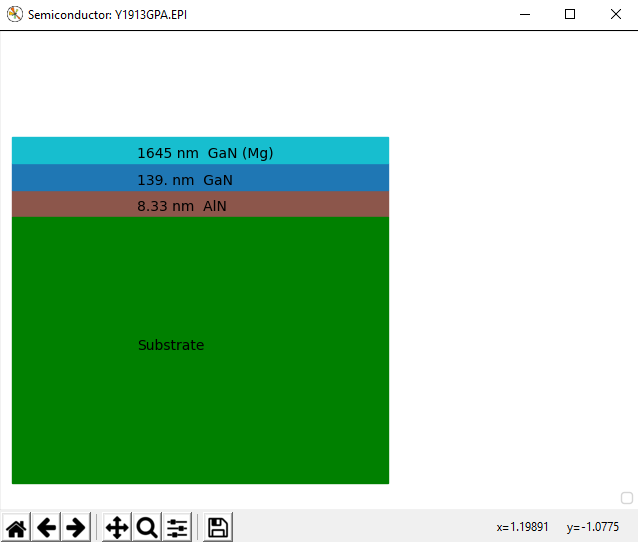
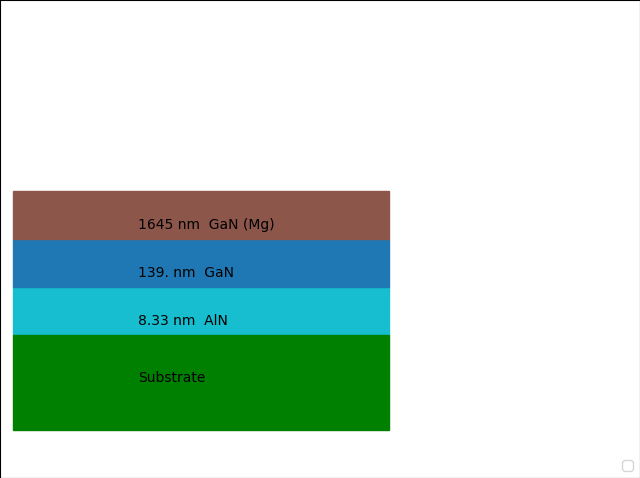
Add files via upload

diff --git a/recipeClass.py b/recipeClass.py
@@ -449,17 +449,17 @@ class Recipe:
 #                        previous_colors.append(color_label)
 #                        semiconductor_layers.append(semiconductor_layer)
             # Add substrate layer
-            substrate = Rectangle((0,-1),3,1,color='g')
+            substrate = Rectangle((0,-0.2),3,0.2,color='g')
             ax.add_patch(substrate)
             ax.legend(handles=semiconductor_layers,loc='lower right')
-            ax.text(1,-0.5,'Substrate')
+            ax.text(1,-0.1,'Substrate')
             
             ax.set_xlim([-0.1,5])
             # Set y limits
             if real_semiconductor:
-                ax.set_ylim([-1.1,previous_layer_thickness+1.5])
+                ax.set_ylim([-0.3,previous_layer_thickness+1.5])
             else:
-                ax.set_ylim([-1.1,box_thickness+0.5])
+                ax.set_ylim([-0.3,box_thickness+0.5])
             plt.show()
             return ax
         return semiconductor()
